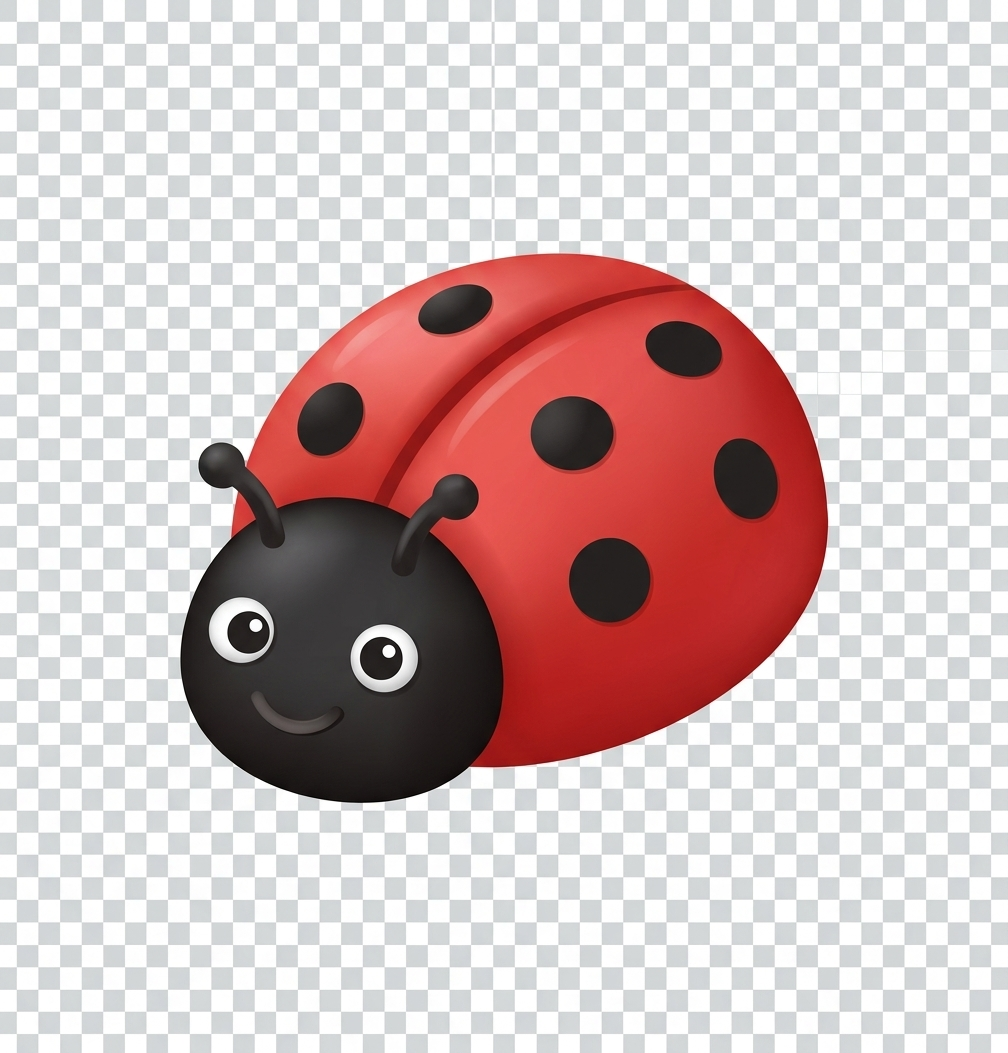
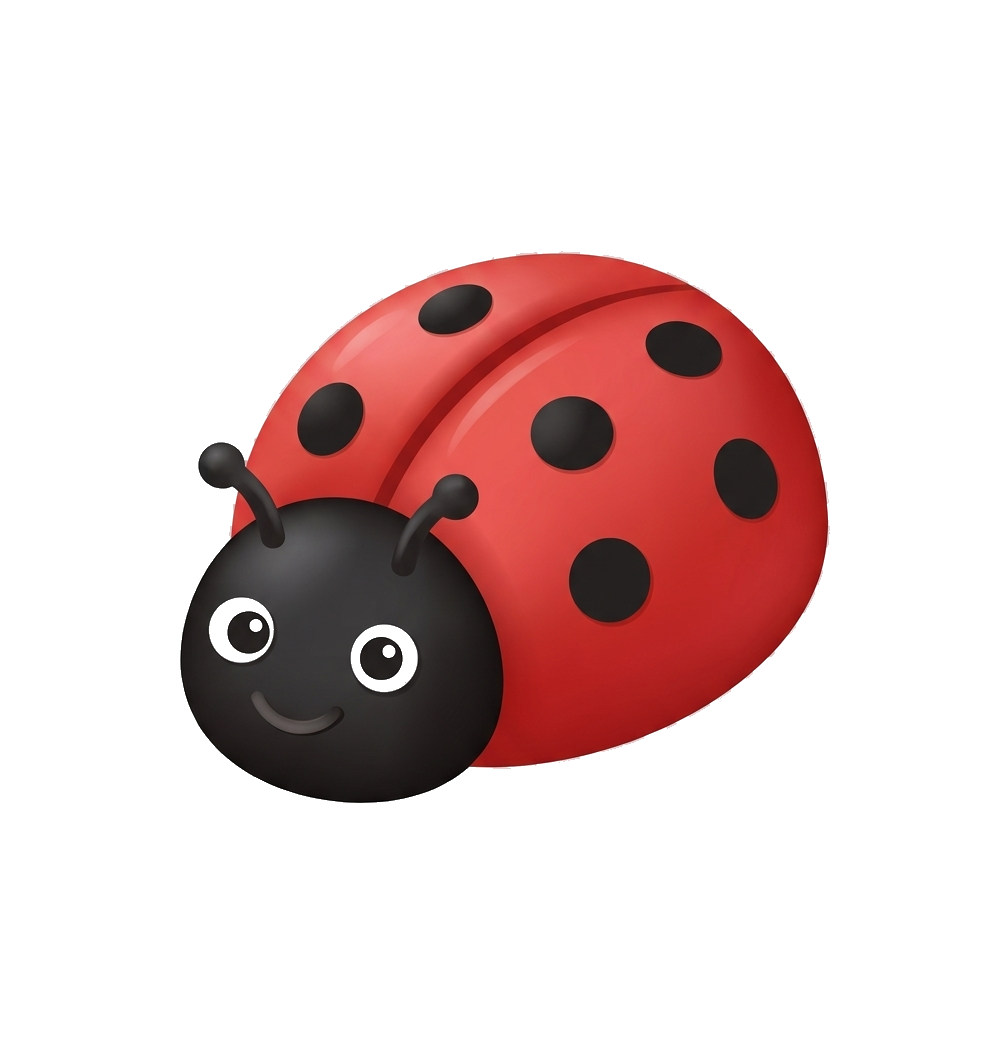
Remove background from ladybug PNG, drop mix-blend-mode

diff --git a/index.html b/index.html
@@ -616,7 +616,7 @@
 
         <!-- Group 1 · 1 ladybug · top-left -->
         <div class="charm-group" id="g1" style="top:24px; left:20px; transform:rotate(-4deg)">
-          <img src="assets/ladybug.png" width="52" height="52" alt="ladybug" style="flex-shrink:0;display:block;mix-blend-mode:multiply;filter:drop-shadow(1px 2px 3px rgba(0,0,0,.25))"/>
+          <img src="assets/ladybug.png" width="52" height="52" alt="ladybug" style="flex-shrink:0;display:block;filter:drop-shadow(1px 2px 3px rgba(0,0,0,.25))"/>
         </div>
 
         <!-- Group 2 · 2 stars · top-right -->